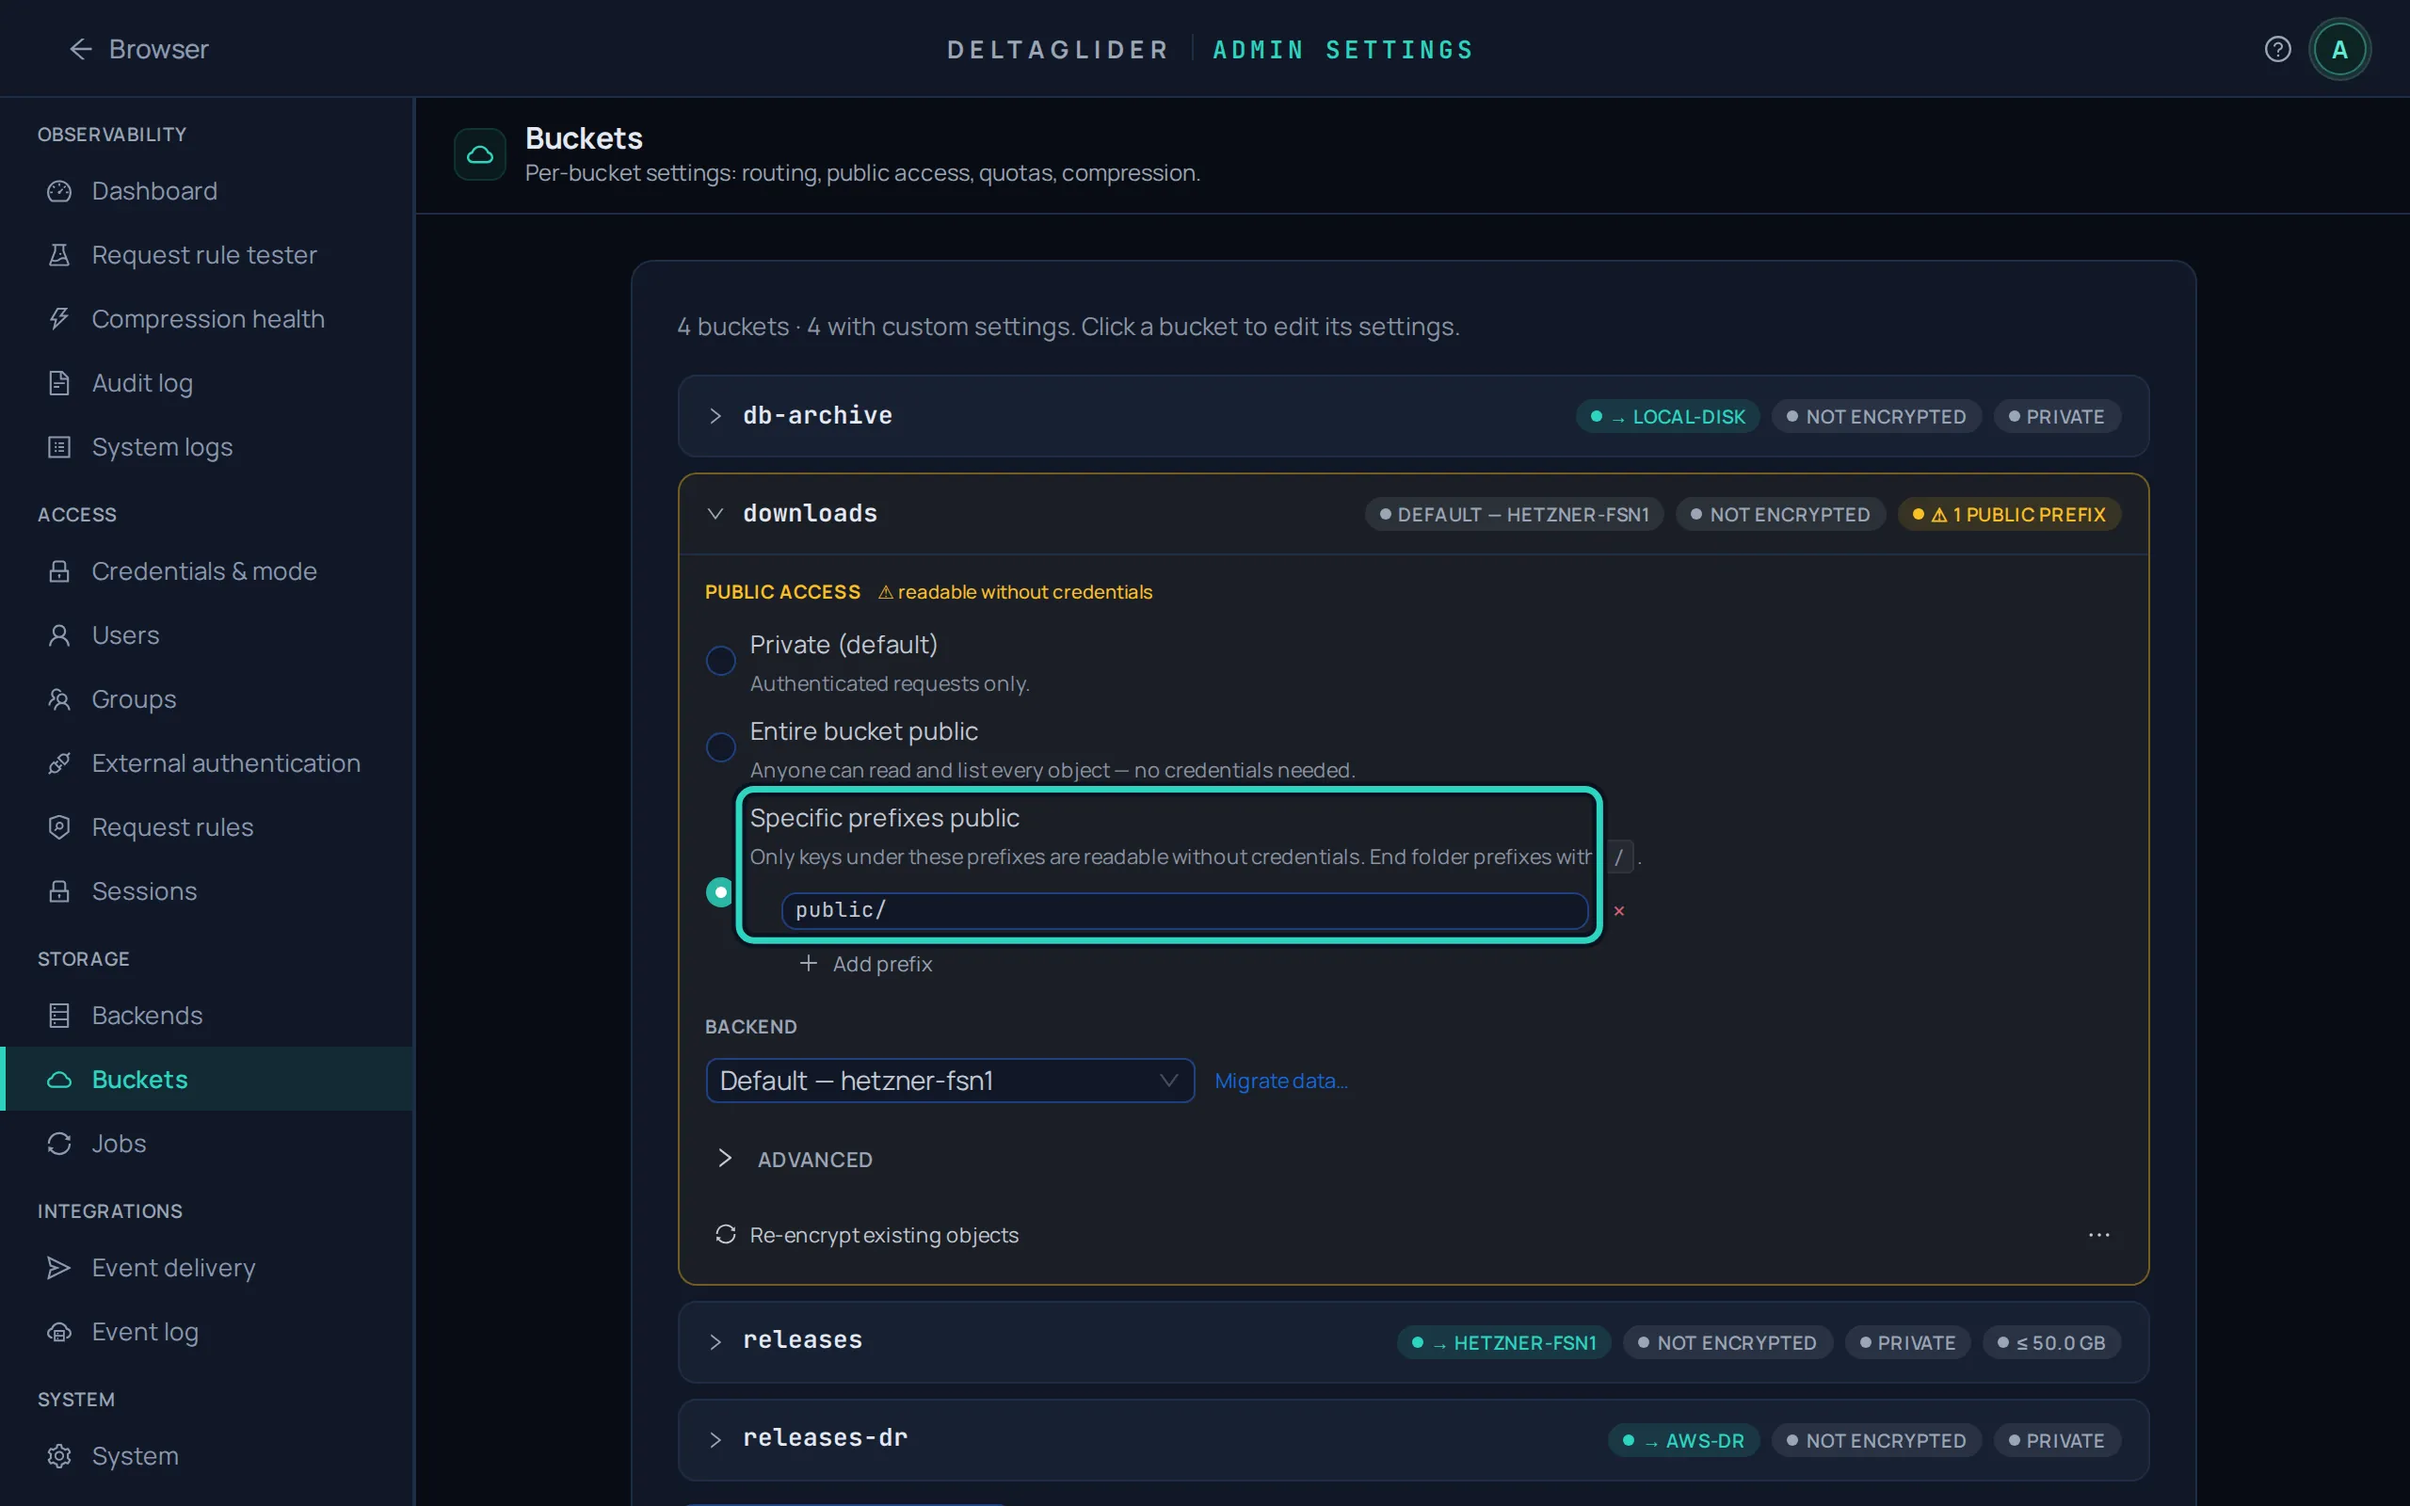
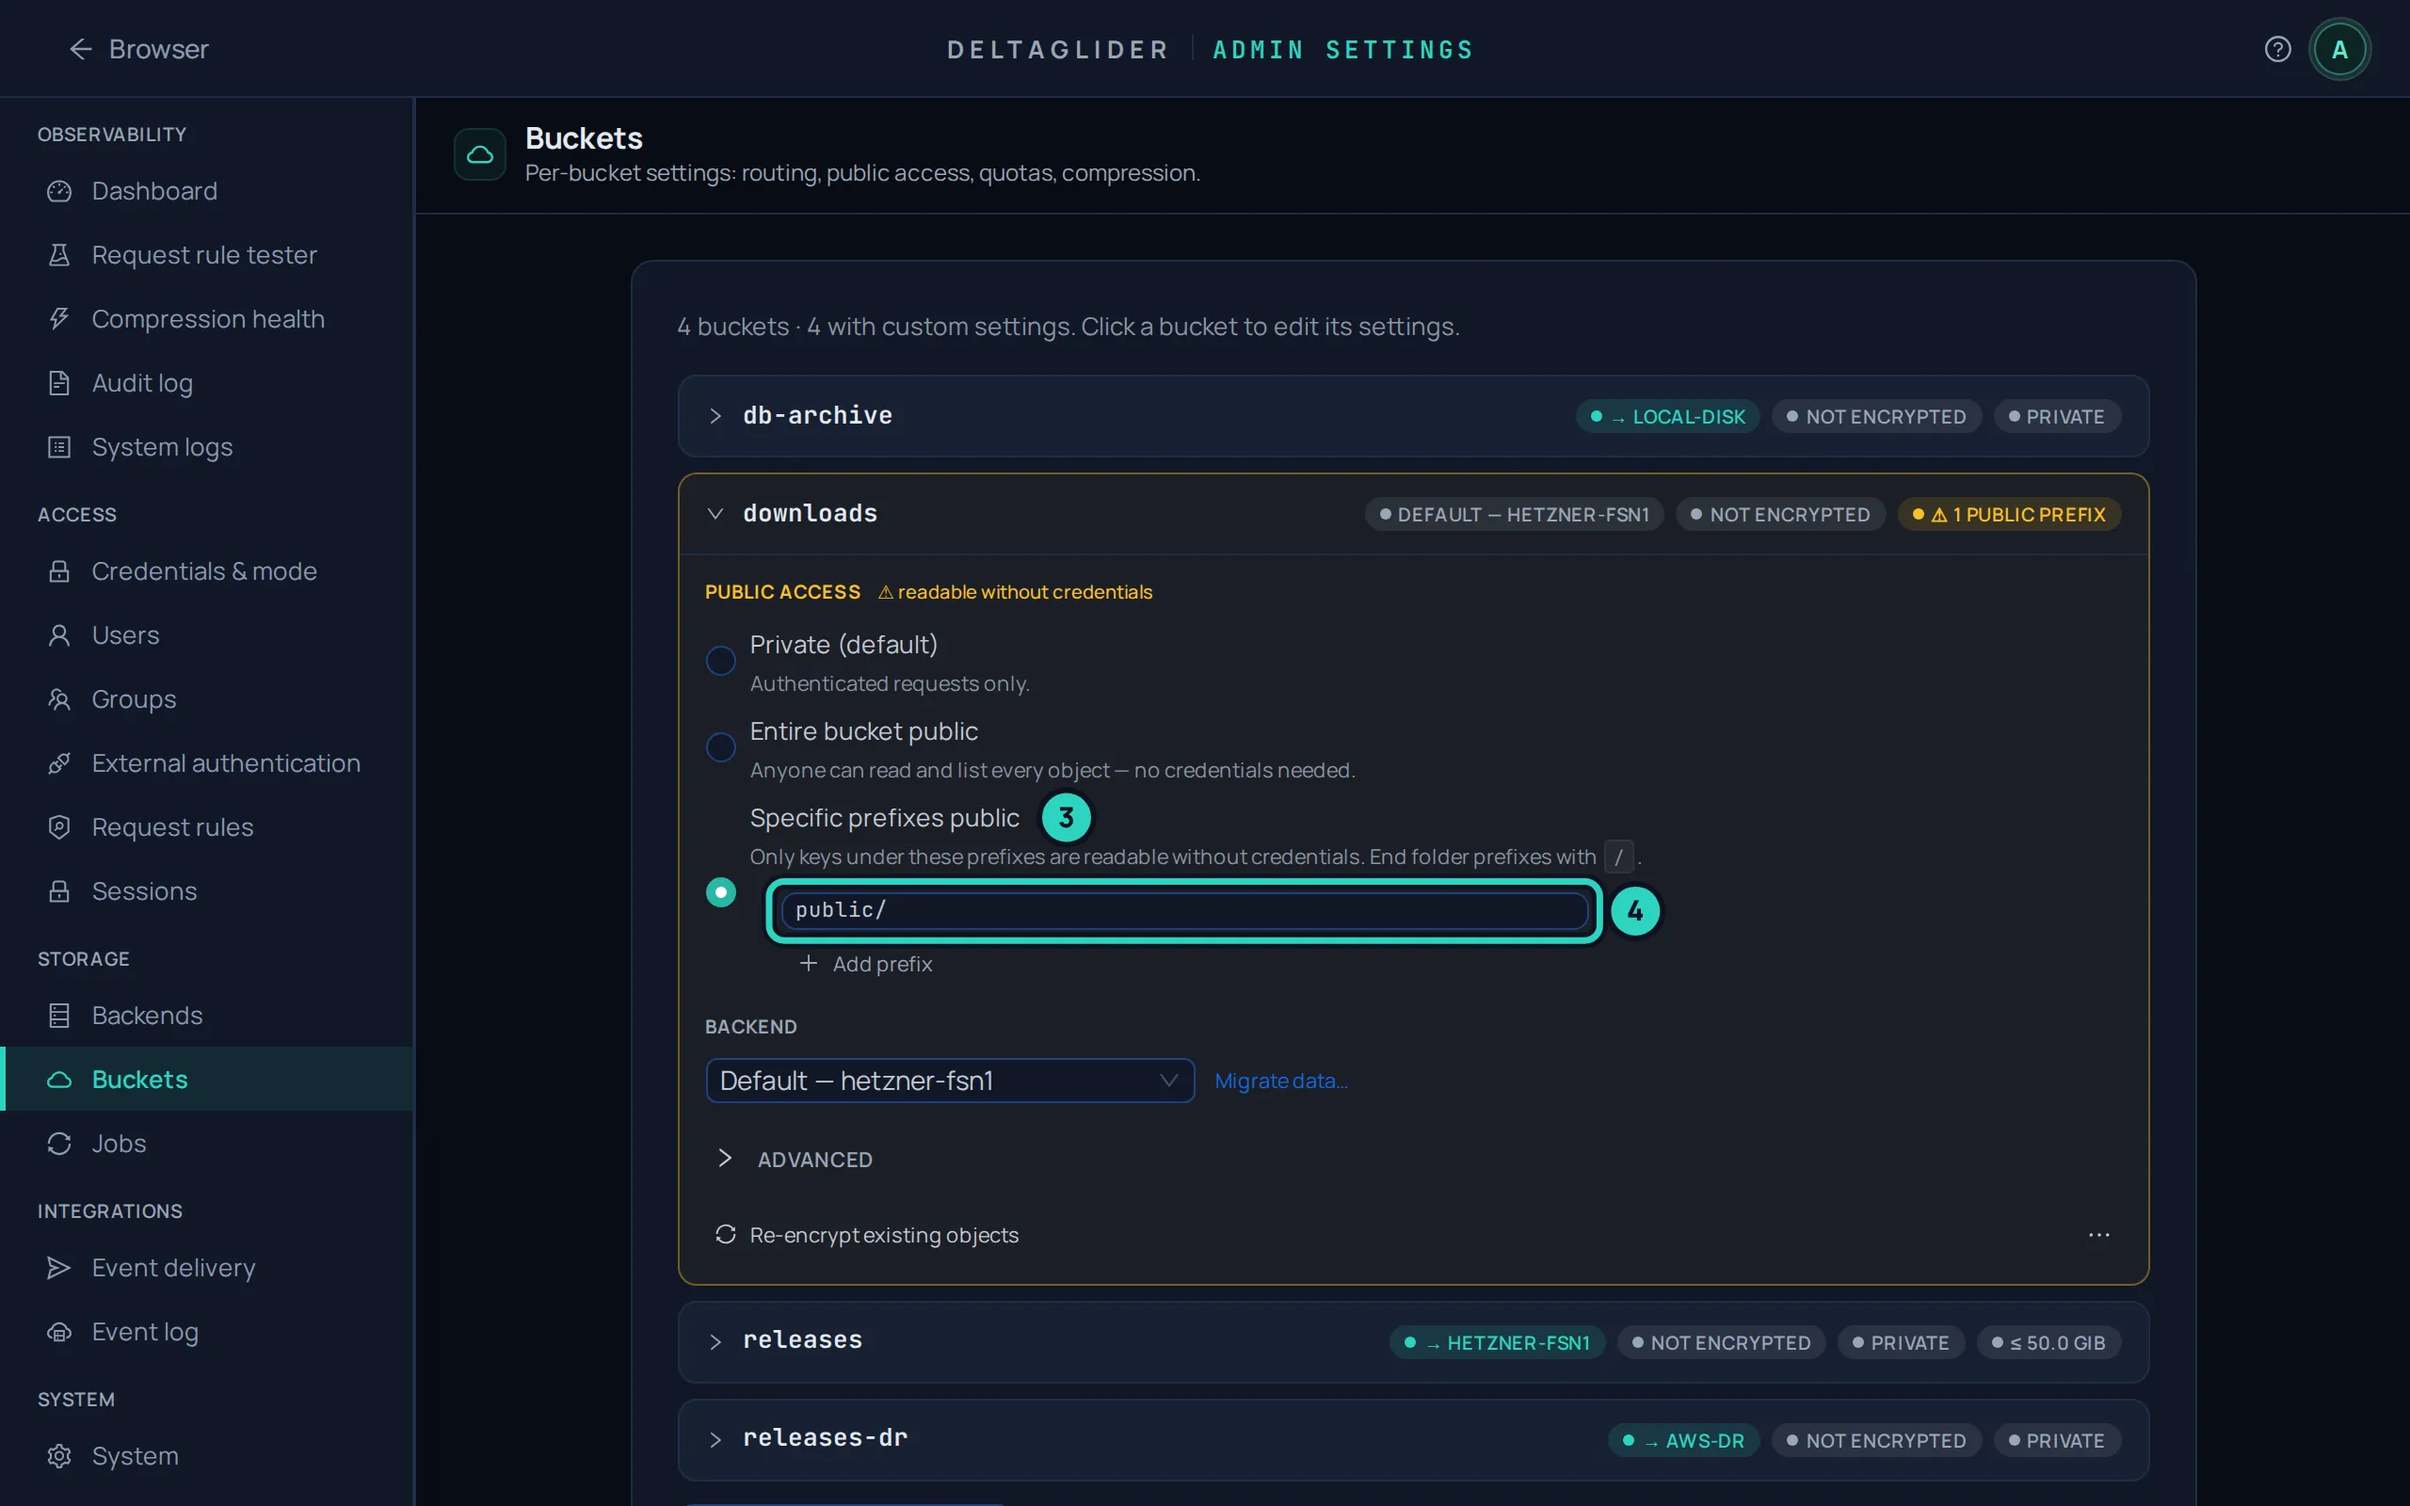
docs(screenshots): batch A storage shots
New annotated shots for compression, cutoff, quota, public prefix, bucket
adoption, CAS re-route and backend health. Route-a-bucket shots re-taken
for the GiB quota label. Two unreferenced jpgs removed.

diff --git a/demo/s3-browser/ui/e2e/docs-screenshots/shots/storage.ts b/demo/s3-browser/ui/e2e/docs-screenshots/shots/storage.ts
@@ -14,6 +14,13 @@ async function openBucket(page: Page, name: string): Promise<void> {
   await page.getByRole('button', { name: new RegExp(`^${name} — click to collapse`) }).waitFor();
 }
 
+/** Open the Advanced disclosure of the open bucket card (it stays open when a setting in it is in use). */
+async function openAdvanced(page: Page): Promise<void> {
+  const cutoff = page.getByRole('spinbutton', { name: 'Quota' });
+  if (!(await cutoff.isVisible())) await page.getByText(/^Advanced/).click();
+  await cutoff.waitFor();
+}
+
 /** The Backend select inside the open bucket card. */
 const backendSelect = (page: Page) => page.getByRole('combobox', { name: 'Backend' });
 const option = (page: Page, title: string) =>
@@ -149,26 +156,167 @@ export const STORAGE_SHOTS: Shot[] = [
     setup: (page) => openBucket(page, 'db-archive'),
     annotations: [{ target: { role: 'combobox', name: 'Backend' }, kind: 'box' }],
   },
+];
+
+async function compressionOffOnDownloads(page: Page): Promise<void> {
+  await openBucket(page, 'downloads');
+  await openAdvanced(page);
+  await page.getByRole('combobox', { name: 'Compression' }).click();
+  await option(page, 'Off').click();
+  await page.getByRole('button', { name: 'Review & apply' }).waitFor();
+  await page.evaluate(() => window.scrollTo(0, 0));
+}
+
+async function reviewDialog(page: Page): Promise<void> {
+  // dispatchEvent, not click: see route-bucket-apply-dialog.
+  await page.getByRole('button', { name: 'Review & apply' }).dispatchEvent('click');
+  await page.getByTestId('apply-dialog-confirm').waitFor();
+}
+
+/** A new settings row for a bucket that the proxy does not see yet. */
+async function openDraft(page: Page): Promise<void> {
+  await page.getByRole('button', { name: 'More ways to add a bucket' }).click();
+  await page.getByText('Add settings for a bucket that does not exist yet').click();
+  await page.getByPlaceholder('Bucket name').waitFor();
+}
+
+const card = (name: string): Target => ({ css: `[data-backend-card="${name}"]` });
+
+/**
+ * Batch A shots (docs: how-to/set-bucket-compression-and-quotas,
+ * publish-a-public-folder, migrate-existing-data-into-the-proxy,
+ * backend-capability-validation, diagnose-backend-connectivity).
+ */
+const BUCKET_POLICY_SHOTS: Shot[] = [
+  {
+    id: 'bucket-compression-off',
+    route: '/_/admin/storage/buckets',
+    alt: 'The downloads bucket is open with its Advanced settings; callout 3 marks Advanced and callout 4 marks the Compression list, set to Off.',
+    setup: compressionOffOnDownloads,
+    annotations: [
+      { target: { text: /^Advanced/ }, kind: 'callout', label: '3', side: 'right' },
+      { target: { role: 'combobox', name: 'Compression' }, kind: 'box', label: '4', side: 'right' },
+    ],
+  },
+  {
+    id: 'bucket-compression-apply-dialog',
+    route: '/_/admin/storage/buckets',
+    alt: 'The review dialog shows that compression of the downloads bucket changes to false; the arrow points at Apply and Persist.',
+    setup: async (page) => {
+      await compressionOffOnDownloads(page);
+      await reviewDialog(page);
+    },
+    annotations: [{ target: { testId: 'apply-dialog-confirm' }, kind: 'arrow', side: 'bottom' }],
+  },
+  {
+    id: 'bucket-delta-cutoff',
+    route: '/_/admin/storage/buckets',
+    alt: 'The releases bucket is open with its Advanced settings; callout 1 marks the releases row and callout 2 marks Delta size cutoff, set to 0.5.',
+    setup: async (page) => {
+      await openBucket(page, 'releases');
+      await openAdvanced(page);
+      await page.getByRole('spinbutton', { name: 'Delta size cutoff' }).fill('0.5');
+      await page.evaluate(() => (document.activeElement as HTMLElement | null)?.blur());
+      await page.evaluate(() => window.scrollTo(0, 0));
+    },
+    annotations: [
+      { target: bucketRow('releases'), kind: 'callout', label: '1' },
+      { target: { role: 'spinbutton', name: 'Delta size cutoff' }, kind: 'box', label: '2', side: 'right' },
+    ],
+  },
   {
     id: 'bucket-quota',
     route: '/_/admin/storage/buckets',
-    alt: 'The releases bucket row is open with its Advanced settings; the box marks the quota of 50 GB.',
+    alt: 'The db-archive bucket is open with its Advanced settings; callout 1 marks the db-archive row, callout 2 marks Advanced, and callout 3 marks Quota, set to 500 GiB.',
     setup: async (page) => {
-      await openBucket(page, 'releases');
-      await page.getByRole('spinbutton', { name: 'Quota' }).scrollIntoViewIfNeeded();
+      await openBucket(page, 'db-archive');
+      await openAdvanced(page);
+      await page.getByRole('spinbutton', { name: 'Quota' }).fill('500');
+      await page.evaluate(() => (document.activeElement as HTMLElement | null)?.blur());
+      await page.evaluate(() => window.scrollTo(0, 0));
     },
-    annotations: [{ target: { role: 'spinbutton', name: 'Quota' }, kind: 'box' }],
+    annotations: [
+      { target: bucketRow('db-archive'), kind: 'callout', label: '1' },
+      { target: { text: /^Advanced/ }, kind: 'callout', label: '2', side: 'right' },
+      { target: { role: 'spinbutton', name: 'Quota' }, kind: 'box', label: '3', side: 'right' },
+    ],
   },
   {
     id: 'bucket-public-prefix',
     route: '/_/admin/storage/buckets',
-    alt: 'The downloads bucket row makes only the public/ prefix readable without credentials; the box marks the Specific prefixes public setting.',
+    alt: 'The downloads bucket is open; callout 3 marks the Specific prefixes public option and callout 4 marks the prefix field, which holds public/.',
     setup: (page) => openBucket(page, 'downloads'),
     annotations: [
-      {
-        target: { union: [{ text: 'Specific prefixes public', exact: true }, { css: 'input[value="public/"]' }] },
-        kind: 'box',
-      },
+      { target: { text: 'Specific prefixes public', exact: true }, kind: 'callout', label: '3', side: 'right' },
+      { target: { role: 'textbox', name: 'Public prefix' }, kind: 'box', label: '4', side: 'right' },
+    ],
+  },
+  {
+    id: 'adopt-bucket-draft',
+    route: '/_/admin/storage/buckets',
+    alt: 'The Buckets page with the menu next to Create bucket open; callout 1 marks Buckets in the sidebar, callout 2 marks the menu button, and callout 3 marks Add settings for a bucket that does not exist yet.',
+    setup: async (page) => {
+      await page.getByRole('button', { name: 'More ways to add a bucket' }).click();
+      await page.getByText('Add settings for a bucket that does not exist yet').waitFor();
+    },
+    annotations: [
+      { target: nav('Buckets'), kind: 'callout', label: '1', side: 'right' },
+      { target: { role: 'button', name: 'More ways to add a bucket' }, kind: 'callout', label: '2', side: 'right' },
+      { target: { text: 'Add settings for a bucket that does not exist yet' }, kind: 'callout', label: '3', side: 'right' },
+    ],
+  },
+  {
+    id: 'adopt-bucket-alias',
+    route: '/_/admin/storage/buckets',
+    alt: 'A new settings row is open; callout 4 marks the Bucket name field, callout 5 marks the Backend list, set to aws-dr, callout 6 marks Advanced, and callout 7 marks Real name on backend, set to acme-firmware.',
+    // The new row sits below the four buckets: a taller screen shows all of it.
+    viewport: { width: 1280, height: 1000 },
+    setup: async (page) => {
+      await openDraft(page);
+      await backendSelect(page).click();
+      await option(page, 'aws-dr').click();
+      await page.getByText(/^Advanced/).click();
+      await page.getByRole('textbox', { name: 'Real name on backend' }).fill('acme-firmware');
+      await page.evaluate(() => (document.activeElement as HTMLElement | null)?.blur());
+      await backendSelect(page).evaluate((el) => el.scrollIntoView({ block: 'center' }));
+      await page.mouse.move(1, 1);
+    },
+    annotations: [
+      { target: { placeholder: 'Bucket name' }, kind: 'callout', label: '4', side: 'right' },
+      { target: { role: 'combobox', name: 'Backend' }, kind: 'box', label: '5', side: 'right' },
+      { target: { text: /^Advanced/ }, kind: 'callout', label: '6', side: 'right' },
+      { target: { role: 'textbox', name: 'Real name on backend' }, kind: 'box', label: '7', side: 'right' },
+    ],
+  },
+  {
+    id: 'backend-cas-reroute',
+    route: '/_/admin/storage/buckets',
+    alt: 'The db-archive bucket is open and its Backend list is expanded; the arrow points at hetzner-fsn1, a backend with conditional writes.',
+    setup: async (page) => {
+      await openBucket(page, 'db-archive');
+      await backendSelect(page).click();
+      await option(page, 'hetzner-fsn1').waitFor();
+    },
+    annotations: [
+      { target: { css: '.ant-select-dropdown .ant-select-item-option[title="hetzner-fsn1"]' }, kind: 'arrow', side: 'right' },
+    ],
+  },
+  {
+    id: 'backend-health-test-connection',
+    route: '/_/admin/storage/backends',
+    alt: 'The hetzner-fsn1 backend card after a probe; one box marks its Connected badge, the arrow points at its Test connection button, and a second box marks the probe result.',
+    setup: async (page) => {
+      await page.getByRole('button', { name: /Test connection$/ }).and(page.locator('[data-backend-card="hetzner-fsn1"] button')).click();
+      await page.locator('[data-backend-card="hetzner-fsn1"] .ant-alert').first().waitFor();
+      await page.mouse.move(1, 1);
+    },
+    annotations: [
+      // The badge comes first in the card; the probe result repeats the word.
+      { target: { text: 'Connected', exact: true, within: card('hetzner-fsn1'), nth: 0 }, kind: 'box' },
+      { target: { css: '[data-backend-card="hetzner-fsn1"] .ant-alert-success' }, kind: 'box' },
+      { target: { role: 'button', name: /Test connection$/, within: card('hetzner-fsn1') }, kind: 'arrow', side: 'top' },
     ],
   },
 ];
+
+STORAGE_SHOTS.push(...BUCKET_POLICY_SHOTS);
